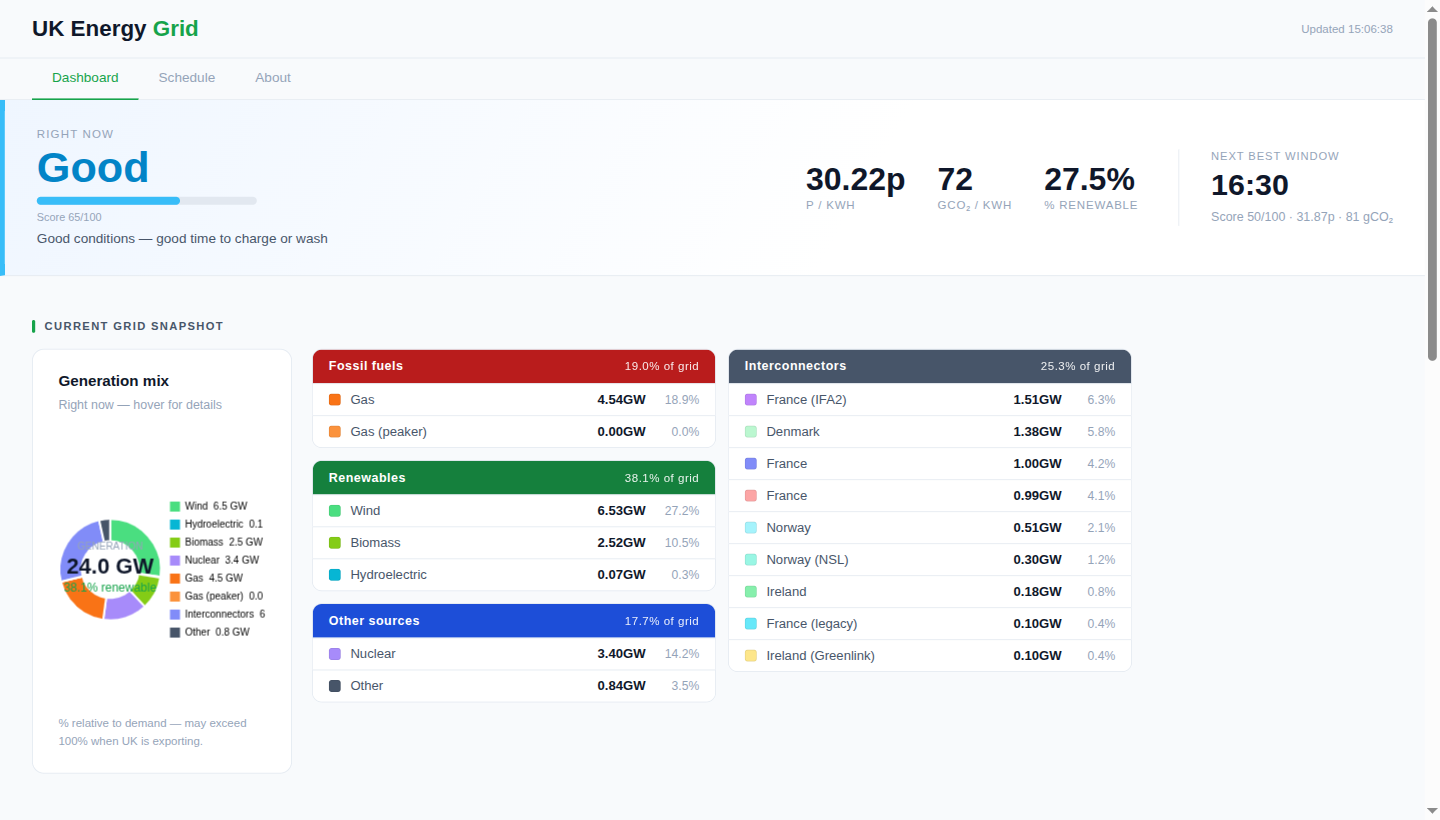
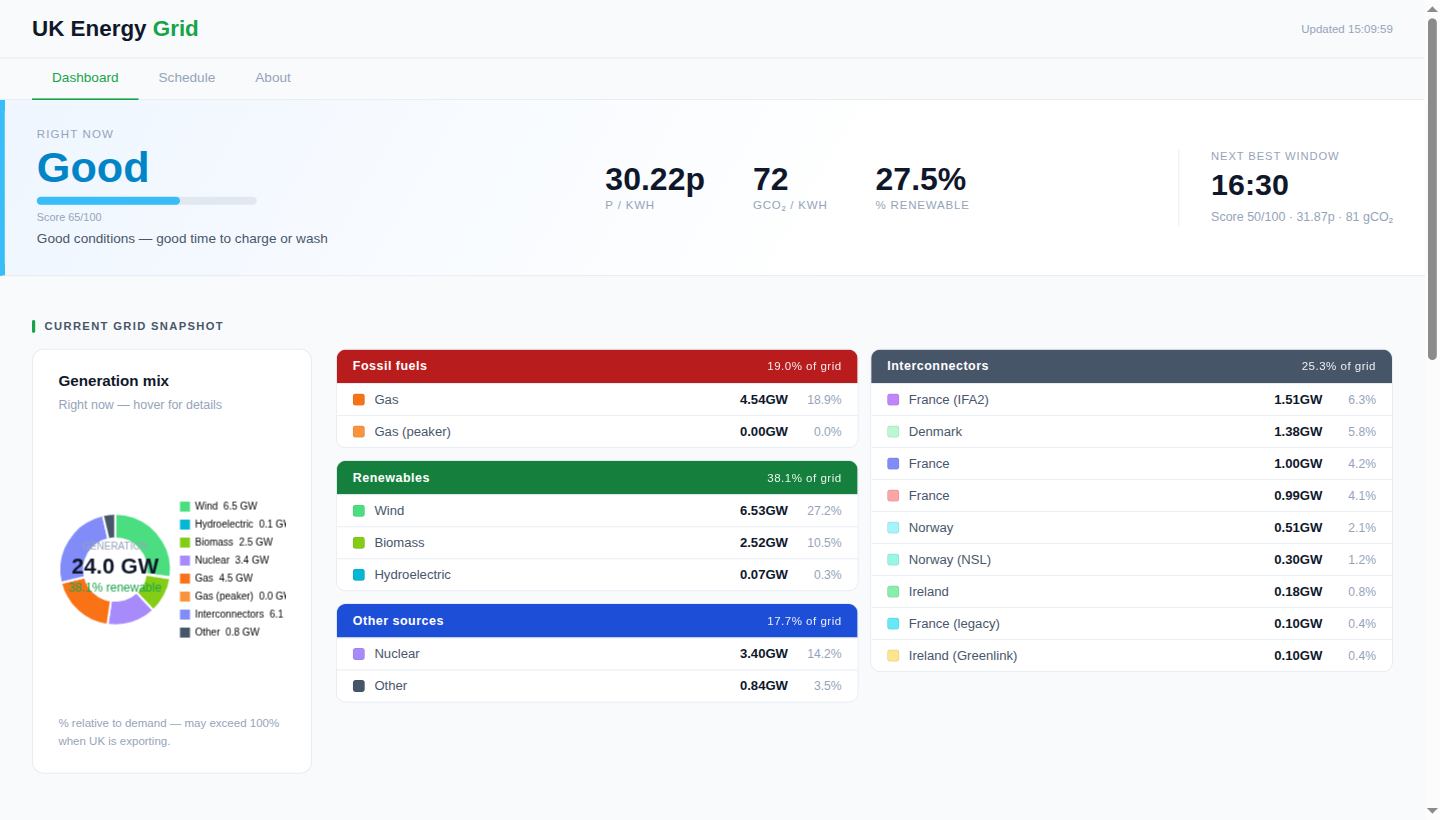
Fix hero and snapshot layout to fill full viewport width
- hero-stats: flex:1 + justify-content:center so price/carbon/renewable
  spread across the middle rather than clustering on the right
- hero-signal: max-width:360px to stop it eating all flex space
- snapshot-layout: remove max-width:1100px cap, widen donut column to 280px
- snapshot-groups-grid: auto-fit minmax so groups fill available width
- Mobile: hero-stats reset to flex-start so they don't mis-centre

diff --git a/dashboard/templates/index.html b/dashboard/templates/index.html
@@ -140,9 +140,9 @@
     .hero.fair      { background: linear-gradient(120deg,#fefce8 0%,#ffffff 60%); border-left-color:#fbbf24; }
     .hero.poor      { background: linear-gradient(120deg,#fff1f2 0%,#ffffff 60%); border-left-color:#f87171; }
 
-    .hero-inner { display:flex; align-items:center; gap:2.5rem; flex-wrap:wrap; }
+    .hero-inner { display:flex; align-items:center; gap:2rem; flex-wrap:wrap; }
 
-    .hero-signal { flex:1; min-width:220px; }
+    .hero-signal { flex:1; min-width:220px; max-width:360px; }
     .hero-eyebrow { font-size:.72rem; text-transform:uppercase; letter-spacing:.1em; color:var(--muted); margin-bottom:.25rem; }
     .hero-word  { font-size:2.7rem; font-weight:800; line-height:1; margin-bottom:.55rem; }
     .hero.excellent .hero-word { color:#16a34a; }
@@ -160,7 +160,7 @@
     .hero-score-txt { font-size:.68rem; color:var(--muted); margin-bottom:.5rem; }
     .hero-rec { font-size:.85rem; color:var(--dim); }
 
-    .hero-stats { display:flex; gap:2rem; }
+    .hero-stats { display:flex; gap:3rem; flex:1; justify-content:center; }
     .hero-stat-val { font-size:2rem; font-weight:700; color:var(--text); line-height:1; }
     .hero-stat-lbl { font-size:.72rem; text-transform:uppercase; letter-spacing:.07em; color:var(--muted); margin-top:.2rem; }
 
@@ -275,7 +275,7 @@
       .hero { padding: 1.25rem 1rem; }
       .hero-inner { gap: 1.25rem; }
       .hero-word { font-size: 2.1rem; }
-      .hero-stats { gap: 1.5rem; }
+      .hero-stats { gap: 1.5rem; flex: none; justify-content: flex-start; }
       .hero-stat-val { font-size: 1.6rem; }
       .hero-stat-lbl { font-size: .7rem; }
       .hero-bar-wrap { width: 160px; }
@@ -341,11 +341,10 @@
     /* ── Grid snapshot panels ───────────────────────── */
     .snapshot-layout {
       display: grid;
-      grid-template-columns: 260px 1fr;
-      gap: 1.25rem;
-      margin-bottom: 1.25rem;
+      grid-template-columns: 280px 1fr;
+      gap: 1.5rem;
+      margin-bottom: 1.5rem;
       align-items: start;
-      max-width: 1100px;
     }
     @media (max-width: 760px) {
       .snapshot-layout { grid-template-columns: 1fr; }
@@ -353,7 +352,7 @@
     .snapshot-col { display: flex; flex-direction: column; gap: .75rem; }
     .snapshot-groups-grid {
       display: grid;
-      grid-template-columns: 1fr 1fr;
+      grid-template-columns: repeat(auto-fit, minmax(280px, 1fr));
       gap: .75rem;
     }
     @media (max-width: 640px) {
